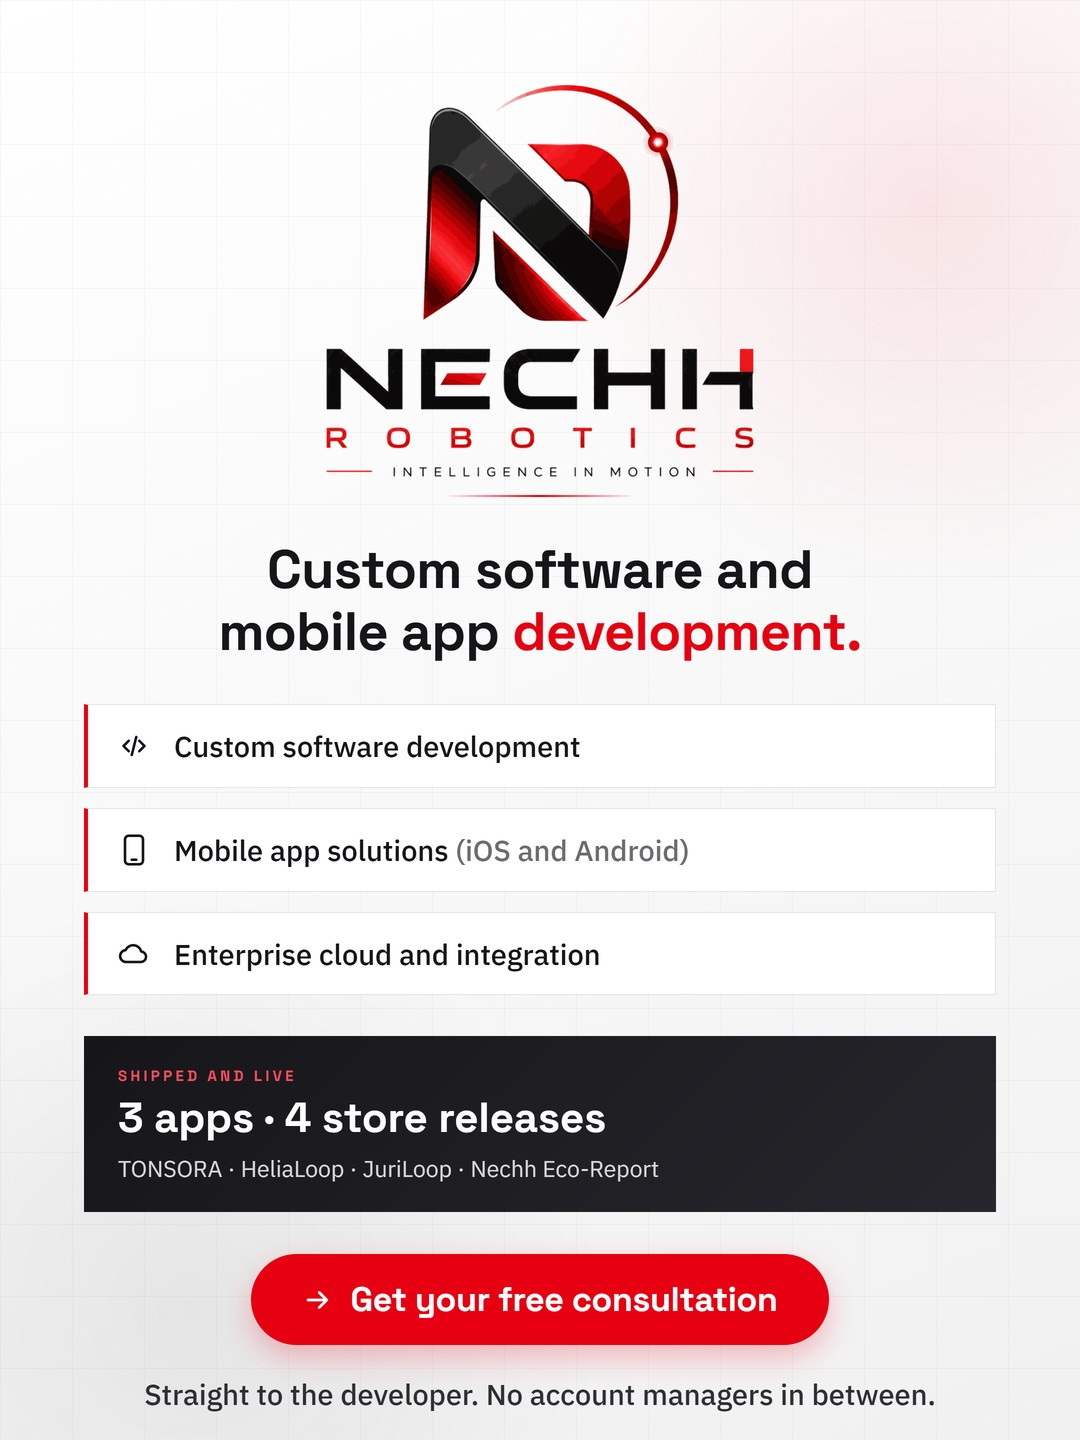
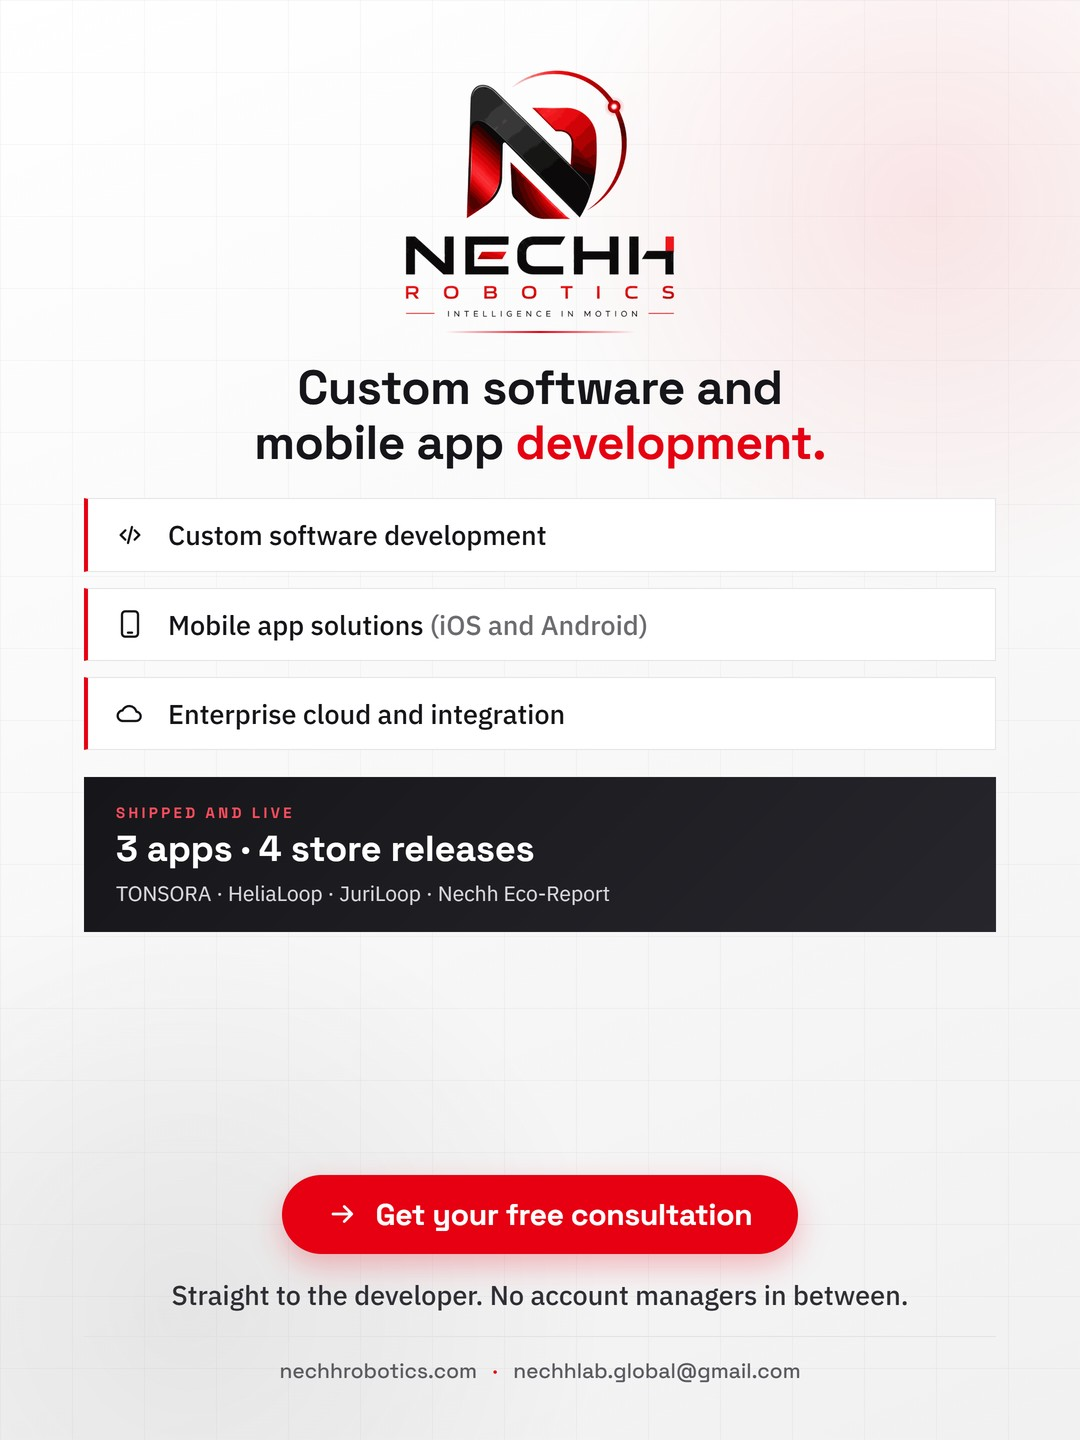
Ceza argumani en uste, gorusme kaldirildi, afisler guncellendi
- Eco-Report sayfasinda hero altina maliyet seridi: "Veriyi siz vermezseniz,
  farkini siz odersiniz" (2026-2028 ornek fark, dipnotlu)
- Fiyatlar euro: kit €299, profesyonel €749, danismanlik €2.500
- "On gorusme" ve "ilk 20 dk ucretsiz" ifadeleri kaldirildi
- Diger oturumun afisleri (tr/en) ve yeniden uretilen kit ZIP'leri
- Dogrulama: tsc temiz, build + prerender 90 sayfa 0 hata

diff --git a/client/src/pages/Services.tsx b/client/src/pages/Services.tsx
@@ -7,7 +7,7 @@ import { englishYazilimIsleri, services, yazilimCalismaDuzeni, yazilimIsleri } f
 const icons = [FileCheck2, Layers3, NotebookTabs];
 
 export default function Services() {
-  return <PageFrame title="Hizmetler" description="Nechh Robotics'in CBAM, uyum süreci ve kaynak hizmetleri."><section className="services-hero"><div className="page-hero-rail"><span>SERVICES / 01</span><i /></div><div><p className="eyebrow">HİZMETLER</p><h1>Hazırlığı tek başınıza<br /><em>taşımak zorunda değilsiniz.</em></h1></div><p>Nechh, düzenleme ve operasyon baskısının yoğunlaştığı noktalarda; hazırlık, yapılandırma ve çalışma disiplini için net bir başlangıç sunar.</p></section><section className="service-grid">{services.map((service, index) => { const Icon = icons[index]; return <article className="service-card" key={service.index}><div className="service-card-meta"><span>{service.index}</span><Icon size={23} /></div><p className="eyebrow">{service.eyebrow}</p><h2>{service.title}</h2><p>{service.summary}</p><div className="service-boundary"><span>SINIR</span><small>{service.note}</small></div><Link href={service.href} className="route-link">Ön görüşme isteyin <ArrowUpRight size={18} /></Link></article>; })}</section><section className="service-process"><div><p className="eyebrow">ÇALIŞMA BİÇİMİ</p><h2>Belirsizliği azaltan<br /><em>üç net adım.</em></h2></div><div className="service-steps"><article><span>01</span><h3>Bağlamı dinleriz</h3><p>Kapsamı, mevcut çalışmayı ve en zor düğümü birlikte tanımlarız.</p></article><article><span>02</span><h3>Çerçeveyi kurarız</h3><p>Veri, belge, kontrol ve sorumluluk akışını uygun çalışma alanına yerleştiririz.</p></article><article><span>03</span><h3>Sonraki adımı açıklarız</h3><p>Ürünün, kaynağın veya hizmetin nerede değer üreteceğini sınırlarıyla birlikte belirtiriz.</p></article></div></section><section className="yazilim-giris"><p className="eyebrow">YAZILIM VE UYGULAMA GELİŞTİRME</p><h2>Tek elden, doğrudan<br /><em>geliştiricinin kendisiyle.</em></h2><p>Aşağıdaki rakamlar başlangıç bedelidir; kapsam büyüdükçe artar, küçüldükçe düşer. Her kalemin yanında o işi hangi <strong>kendi ürünümüzde</strong> bitirdiğimiz yazılıdır: müşteri referansı değil, yapabildiğimizin kanıtı. Ajans değiliz: araya hesap yöneticisi girmez, işi yapan kişiyle konuşursunuz. Fiyatlar euro cinsindendir; fatura ve tahsilat, ödeme günündeki kur üzerinden Türk lirası olarak yapılır.</p></section><section className="paket-grid yazilim-grid">{yazilimIsleri.map((is) => <article className="paket-karti" key={is.slug}><p className="eyebrow">{is.aile}</p><h2>{is.ad}</h2><p className="paket-ozet">{is.ozet}</p><ul className="paket-icerik">{is.kapsam.map((satir) => <li key={satir}><Check size={14} />{satir}</li>)}</ul><p className="yazilim-kanit">BU İŞİ YAPTIĞIM ÜRÜN <b>{is.kanit}</b></p><div className="paket-fiyat"><strong>{is.fiyat}</strong><small>{is.fiyatNot} teslim</small></div><Link href="/iletisim" className="route-link">Bu iş için teklif isteyin <ArrowUpRight size={18} /></Link></article>)}</section><section className="hizmet-serit"><div><p className="eyebrow">ÇALIŞMA DÜZENİ</p><h2>Ödeme aşamalı,<br /><em>kapsam baştan yazılı.</em></h2></div><div className="yazilim-duzen"><article><h3>Ödeme aşamaları</h3><ol>{yazilimCalismaDuzeni.odeme.map((adim, i) => <li key={i}><strong>{adim.oran} · {adim.an}</strong><br />{adim.not}</li>)}</ol></article><article><h3>Fiyata dahil değildir</h3><ul>{yazilimCalismaDuzeni.kapsamDisi.map((kalem) => <li key={kalem}>{kalem}</li>)}</ul></article><p className="yazilim-sinir">{yazilimCalismaDuzeni.sinir}</p></div></section></PageFrame>;
+  return <PageFrame title="Hizmetler" description="Nechh Robotics'in CBAM, uyum süreci ve kaynak hizmetleri."><section className="services-hero"><div className="page-hero-rail"><span>SERVICES / 01</span><i /></div><div><p className="eyebrow">HİZMETLER</p><h1>Hazırlığı tek başınıza<br /><em>taşımak zorunda değilsiniz.</em></h1></div><p>Nechh, düzenleme ve operasyon baskısının yoğunlaştığı noktalarda; hazırlık, yapılandırma ve çalışma disiplini için net bir başlangıç sunar.</p></section><section className="service-grid">{services.map((service, index) => { const Icon = icons[index]; return <article className="service-card" key={service.index}><div className="service-card-meta"><span>{service.index}</span><Icon size={23} /></div><p className="eyebrow">{service.eyebrow}</p><h2>{service.title}</h2><p>{service.summary}</p><div className="service-boundary"><span>SINIR</span><small>{service.note}</small></div><Link href={service.href} className="route-link">İletişime geçin <ArrowUpRight size={18} /></Link></article>; })}</section><section className="service-process"><div><p className="eyebrow">ÇALIŞMA BİÇİMİ</p><h2>Belirsizliği azaltan<br /><em>üç net adım.</em></h2></div><div className="service-steps"><article><span>01</span><h3>Bağlamı dinleriz</h3><p>Kapsamı, mevcut çalışmayı ve en zor düğümü birlikte tanımlarız.</p></article><article><span>02</span><h3>Çerçeveyi kurarız</h3><p>Veri, belge, kontrol ve sorumluluk akışını uygun çalışma alanına yerleştiririz.</p></article><article><span>03</span><h3>Sonraki adımı açıklarız</h3><p>Ürünün, kaynağın veya hizmetin nerede değer üreteceğini sınırlarıyla birlikte belirtiriz.</p></article></div></section><section className="yazilim-giris"><p className="eyebrow">YAZILIM VE UYGULAMA GELİŞTİRME</p><h2>Tek elden, doğrudan<br /><em>geliştiricinin kendisiyle.</em></h2><p>Aşağıdaki rakamlar başlangıç bedelidir; kapsam büyüdükçe artar, küçüldükçe düşer. Her kalemin yanında o işi hangi <strong>kendi ürünümüzde</strong> bitirdiğimiz yazılıdır: müşteri referansı değil, yapabildiğimizin kanıtı. Ajans değiliz: araya hesap yöneticisi girmez, işi yapan kişiyle konuşursunuz. Fiyatlar euro cinsindendir; fatura ve tahsilat, ödeme günündeki kur üzerinden Türk lirası olarak yapılır.</p></section><section className="paket-grid yazilim-grid">{yazilimIsleri.map((is) => <article className="paket-karti" key={is.slug}><p className="eyebrow">{is.aile}</p><h2>{is.ad}</h2><p className="paket-ozet">{is.ozet}</p><ul className="paket-icerik">{is.kapsam.map((satir) => <li key={satir}><Check size={14} />{satir}</li>)}</ul><p className="yazilim-kanit">BU İŞİ YAPTIĞIM ÜRÜN <b>{is.kanit}</b></p><div className="paket-fiyat"><strong>{is.fiyat}</strong><small>{is.fiyatNot} teslim</small></div><Link href="/iletisim" className="route-link">Bu iş için teklif isteyin <ArrowUpRight size={18} /></Link></article>)}</section><section className="hizmet-serit"><div><p className="eyebrow">ÇALIŞMA DÜZENİ</p><h2>Ödeme aşamalı,<br /><em>kapsam baştan yazılı.</em></h2></div><div className="yazilim-duzen"><article><h3>Ödeme aşamaları</h3><ol>{yazilimCalismaDuzeni.odeme.map((adim, i) => <li key={i}><strong>{adim.oran} · {adim.an}</strong><br />{adim.not}</li>)}</ol></article><article><h3>Fiyata dahil değildir</h3><ul>{yazilimCalismaDuzeni.kapsamDisi.map((kalem) => <li key={kalem}>{kalem}</li>)}</ul></article><p className="yazilim-sinir">{yazilimCalismaDuzeni.sinir}</p></div></section></PageFrame>;
 }
 
 export function EnglishServices() {

diff --git a/client/src/lib/site.ts b/client/src/lib/site.ts
@@ -239,7 +239,7 @@ export type Service = {
 
 export const services: Service[] = [
   { index: "01", eyebrow: "CBAM / AUTHORISED DECLARANT", title: "CBAM başvuru hazırlığı", summary: "Authorised Declarant süreci için kapsam değerlendirmesi, belge hazırlığı ve süreç koordinasyonu.", note: "Hizmet; hukuki danışmanlık, akredite doğrulama veya resmî beyanın yerine geçmez.", href: "/iletisim" },
-  { index: "02", eyebrow: "UYUM / SÜREÇ TASARIMI", title: "Uyum çalışma alanı", summary: "CBAM, KVKK, GDPR, İSG ve benzeri süreçlerde veri, doküman ve kontrol akışını netleştirmeye yönelik başlangıç çalışması.", note: "Kapsam, ihtiyaç görüşmesinden sonra yazılı olarak netleştirilir.", href: "/iletisim" },
+  { index: "02", eyebrow: "UYUM / SÜREÇ TASARIMI", title: "Uyum çalışma alanı", summary: "CBAM, KVKK, GDPR, İSG ve benzeri süreçlerde veri, doküman ve kontrol akışını netleştirmeye yönelik başlangıç çalışması.", note: "Kapsam baştan yazılı olarak netleştirilir; sürpriz kalem çıkmaz.", href: "/iletisim" },
   { index: "03", eyebrow: "KAYNAK / DİJİTAL PAKET", title: "Kendi ekibinizle başlamak", summary: "Kurum içi hazırlık için rehber, kontrol listesi ve düzenlenebilir çalışma şablonlarından oluşan kaynak yaklaşımı.", note: "Çevrimiçi ödeme şu an etkin değildir; teslimat ve lisanslama e-posta üzerinden netleştirilir.", href: "/iletisim" },
 ];
 
@@ -652,6 +652,34 @@ export type Paket = {
   sinir: string;
 };
 
+/** CBAM maliyet argumani — Eco-Report'un kendi motorundan OLCULDU.
+ *
+ * Resmi beyani AB'deki ithalatci yapar; ureticiden veri alamazsa resmi
+ * VARSAYILAN degeri kullanir ve o deger bilerek cezalidir. Fark, ithalatcinin
+ * cebinden cikar ve ureticinin fiyatina yansir.
+ *
+ * 🔴 Bu sayilar TEK BIR ornege aittir (CN 7208 51 20, Turkiye, 1.000 ton).
+ * Sayfada da oyle yaziyor: baska urun ve miktarda sonuc degisir. Genel
+ * gecermis gibi sunmak yanlis beyan olurdu.
+ */
+export const cbamMaliyet = {
+  baslik: "Veriyi siz vermezseniz, farkını siz ödersiniz.",
+  altBaslik:
+    "Resmî beyanı AB'deki ithalatçı yapar. Ama sizden veri alamazsa resmî varsayılan " +
+    "değeri kullanmak zorunda — ve o değer bilerek cezalıdır.",
+  ornek: "CN 7208 51 20 · Türkiye · 1.000 tonluk tek sevkiyat",
+  yillar: [
+    { yil: "2026", ceza: "+%10", tutar: "€18.278" },
+    { yil: "2027", ceza: "+%20", tutar: "€36.556" },
+    { yil: "2028", ceza: "+%30", tutar: "€54.834" },
+  ],
+  dipnot:
+    "Sertifika fiyatı €75,28 (AB ETS, 2026 2. çeyrek) alınarak hesaplandı. " +
+    "Ceza oranları: Reg. (EU) 2025/2621. Başka ürün, ülke ve miktarda sonuç değişir; " +
+    "kendi rakamınızı uygulamada kendi CN kodunuzla görebilirsiniz.",
+  kapanis: "Satılan şey belge değil: gerçek veriyle beyan edilen ton ile varsayılan değerle beyan edilen ton arasındaki fark.",
+};
+
 /** Fiyatlar eski siteden birebir taşındı (22 Ağu 2026). Tek kaynak burasıdır. */
 export const paketler: Paket[] = [
   {
@@ -666,7 +694,7 @@ export const paketler: Paket[] = [
       "Tedarikçi veri şablonu",
       "Belge kontrol listesi",
     ],
-    fiyat: "€89",
+    fiyat: "€299",
     fiyatNot: "tek seferlik · + KDV",
     dosya: "/urunler/cbam-girisimci-kiti.zip",
     sinir: "Hazırlık materyalidir; akredite doğrulama veya resmî beyan değildir.",
@@ -778,7 +806,7 @@ export const ucretliHizmetler: Hizmet[] = [
     aile: "CBAM · Karma",
     ad: "CBAM Profesyonel Paketi",
     ozet: "Girişimci Kiti + 1 saat birebir danışmanlık.",
-    fiyat: "€140",
+    fiyat: "€749",
     fiyatNot: "tek seferlik · + KDV",
     sinir: "Hazırlık ve yönlendirme hizmetidir; resmî beyan yerine geçmez.",
   },

diff --git a/client/src/index.css b/client/src/index.css
@@ -520,3 +520,20 @@ a:focus-visible, button:focus-visible, input:focus-visible, textarea:focus-visib
 
 /* Odeme kutusu: fiyat euro, tahsilat TL - bu notun gorunmesi gerekiyor. */
 .odeme-para-birimi { margin: 0 0 16px; padding: 12px 14px; border-left: 3px solid var(--blue); background: rgba(17,85,204,.05); color: var(--muted-ink); font-size: 12px; line-height: 1.62; }
+
+/* CBAM maliyet seridi — urun sayfasinin en ustu. Once SAYI gorunur,
+   aciklama altta kucuk durur: basliga bakip gecen kisi de anlasin. */
+.maliyet-serit { padding: 78px clamp(24px, 11vw, 180px); background: var(--ink, #0f1720); color: #fff; }
+.maliyet-baslik .eyebrow { color: var(--red, #e2483d); }
+.maliyet-baslik h2 { margin: 12px 0 14px; font-family: "Space Grotesk", sans-serif; font-size: clamp(28px, 4.2vw, 46px); line-height: 1.08; letter-spacing: -.02em; }
+.maliyet-baslik > p { max-width: 720px; margin: 0 0 40px; color: rgba(255,255,255,.74); font-size: 16px; line-height: 1.6; }
+.maliyet-kutular { display: grid; grid-template-columns: repeat(3, 1fr); gap: 18px; }
+.maliyet-kutu { padding: 30px 26px; border: 1px solid rgba(255,255,255,.16); border-radius: 3px; background: rgba(255,255,255,.04); }
+.maliyet-yil { display: block; margin-bottom: 10px; color: rgba(255,255,255,.55); font-family: "Space Grotesk", sans-serif; font-size: 12px; letter-spacing: .18em; }
+.maliyet-kutu strong { display: block; font-family: "Space Grotesk", sans-serif; font-size: clamp(30px, 4.6vw, 48px); line-height: 1; letter-spacing: -.03em; }
+.maliyet-kutu small { display: block; margin-top: 10px; color: rgba(255,255,255,.62); font-size: 13px; }
+.maliyet-ornek { margin: 22px 0 0; color: rgba(255,255,255,.55); font-size: 13px; letter-spacing: .04em; }
+.maliyet-kapanis { max-width: 760px; margin: 30px 0 0; padding-top: 26px; border-top: 1px solid rgba(255,255,255,.16); font-size: 17px; line-height: 1.55; }
+/* Sinir cumlesi: kucuk ama SILINMEZ. Sayilar tek bir ornege ait. */
+.maliyet-dipnot { max-width: 760px; margin: 16px 0 0; color: rgba(255,255,255,.5); font-size: 12px; line-height: 1.6; }
+@media (max-width: 860px) { .maliyet-serit { padding: 64px 32px; } .maliyet-kutular { grid-template-columns: 1fr; } }

diff --git a/client/src/pages/ProductDetail.tsx b/client/src/pages/ProductDetail.tsx
@@ -2,7 +2,7 @@
 import { ArrowLeft, ArrowUpRight, ExternalLink } from "lucide-react";
 import { Link } from "wouter";
 import { PageFrame } from "@/components/SiteShell";
-import { getProduct } from "@/lib/site";
+import { cbamMaliyet, getProduct } from "@/lib/site";
 import { MagazaRozetleri } from "@/components/MagazaRozetleri";
 
 type ProductDetailProps = { params?: { slug?: string } };
@@ -21,6 +21,32 @@ export default function ProductDetail({ params }: ProductDetailProps) {
         <div className="product-orbit" aria-hidden="true"><span className="orbit-dot dot-a" /><span className="orbit-dot dot-b" /><span className="orbit-dot dot-c" /><b>{product.eyebrow.split(" /")[0]}</b></div>
       </section>
 
+      {/* MALIYET SERIDI — 13 Eyl 2026.
+          "Bu belge ne ise yarar, resmi degilse neden para odeyeyim" sorusu
+          sayfada hicbir yerde cevaplanmiyordu. Cevap PARA ve sayilar
+          Eco-Report'un kendi motorundan olculdu.
+          En uste konuldu: basliga bakip gecen kisi de gorsun. */}
+      {product.slug === "eco-report" && (
+        <section className="maliyet-serit">
+          <div className="maliyet-baslik">
+            <p className="eyebrow">NEDEN GEREKLİ</p>
+            <h2>{cbamMaliyet.baslik}</h2>
+            <p>{cbamMaliyet.altBaslik}</p>
+          </div>
+          <div className="maliyet-kutular">
+            {cbamMaliyet.yillar.map((y) => (
+              <article key={y.yil} className="maliyet-kutu">
+                <span className="maliyet-yil">{y.yil}</span>
+                <strong>{y.tutar}</strong>
+                <small>varsayılan değer {y.ceza} cezalı</small>
+              </article>
+            ))}
+          </div>
+          <p className="maliyet-ornek">{cbamMaliyet.ornek}</p>
+          <p className="maliyet-kapanis">{cbamMaliyet.kapanis}</p>
+          <p className="maliyet-dipnot">{cbamMaliyet.dipnot}</p>
+        </section>
+      )}
       <section className="product-context">
         <div className="context-label"><span>BAĞLAM</span><i /></div>
         <div className="context-copy"><h2>{product.useCase}</h2><p>{product.longDescription}</p></div>
